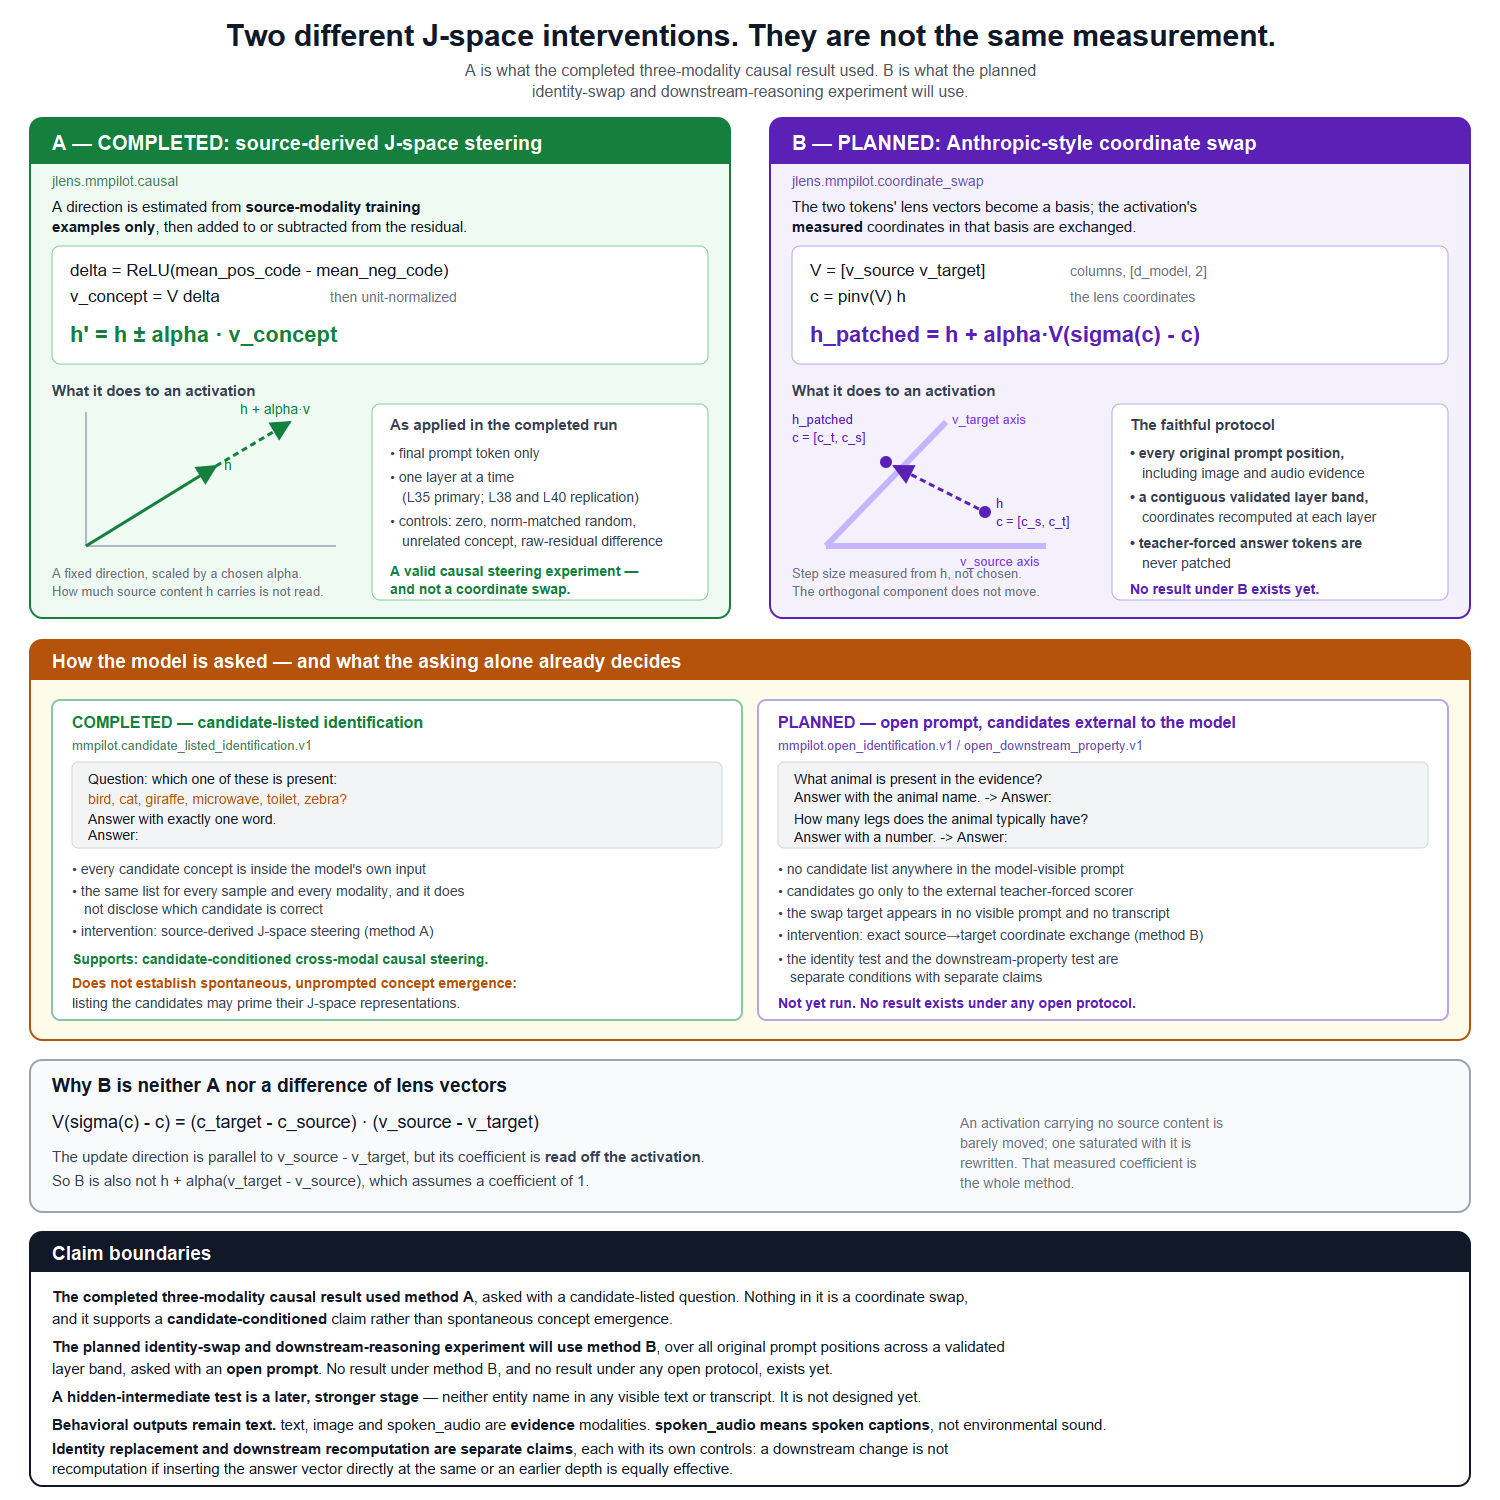
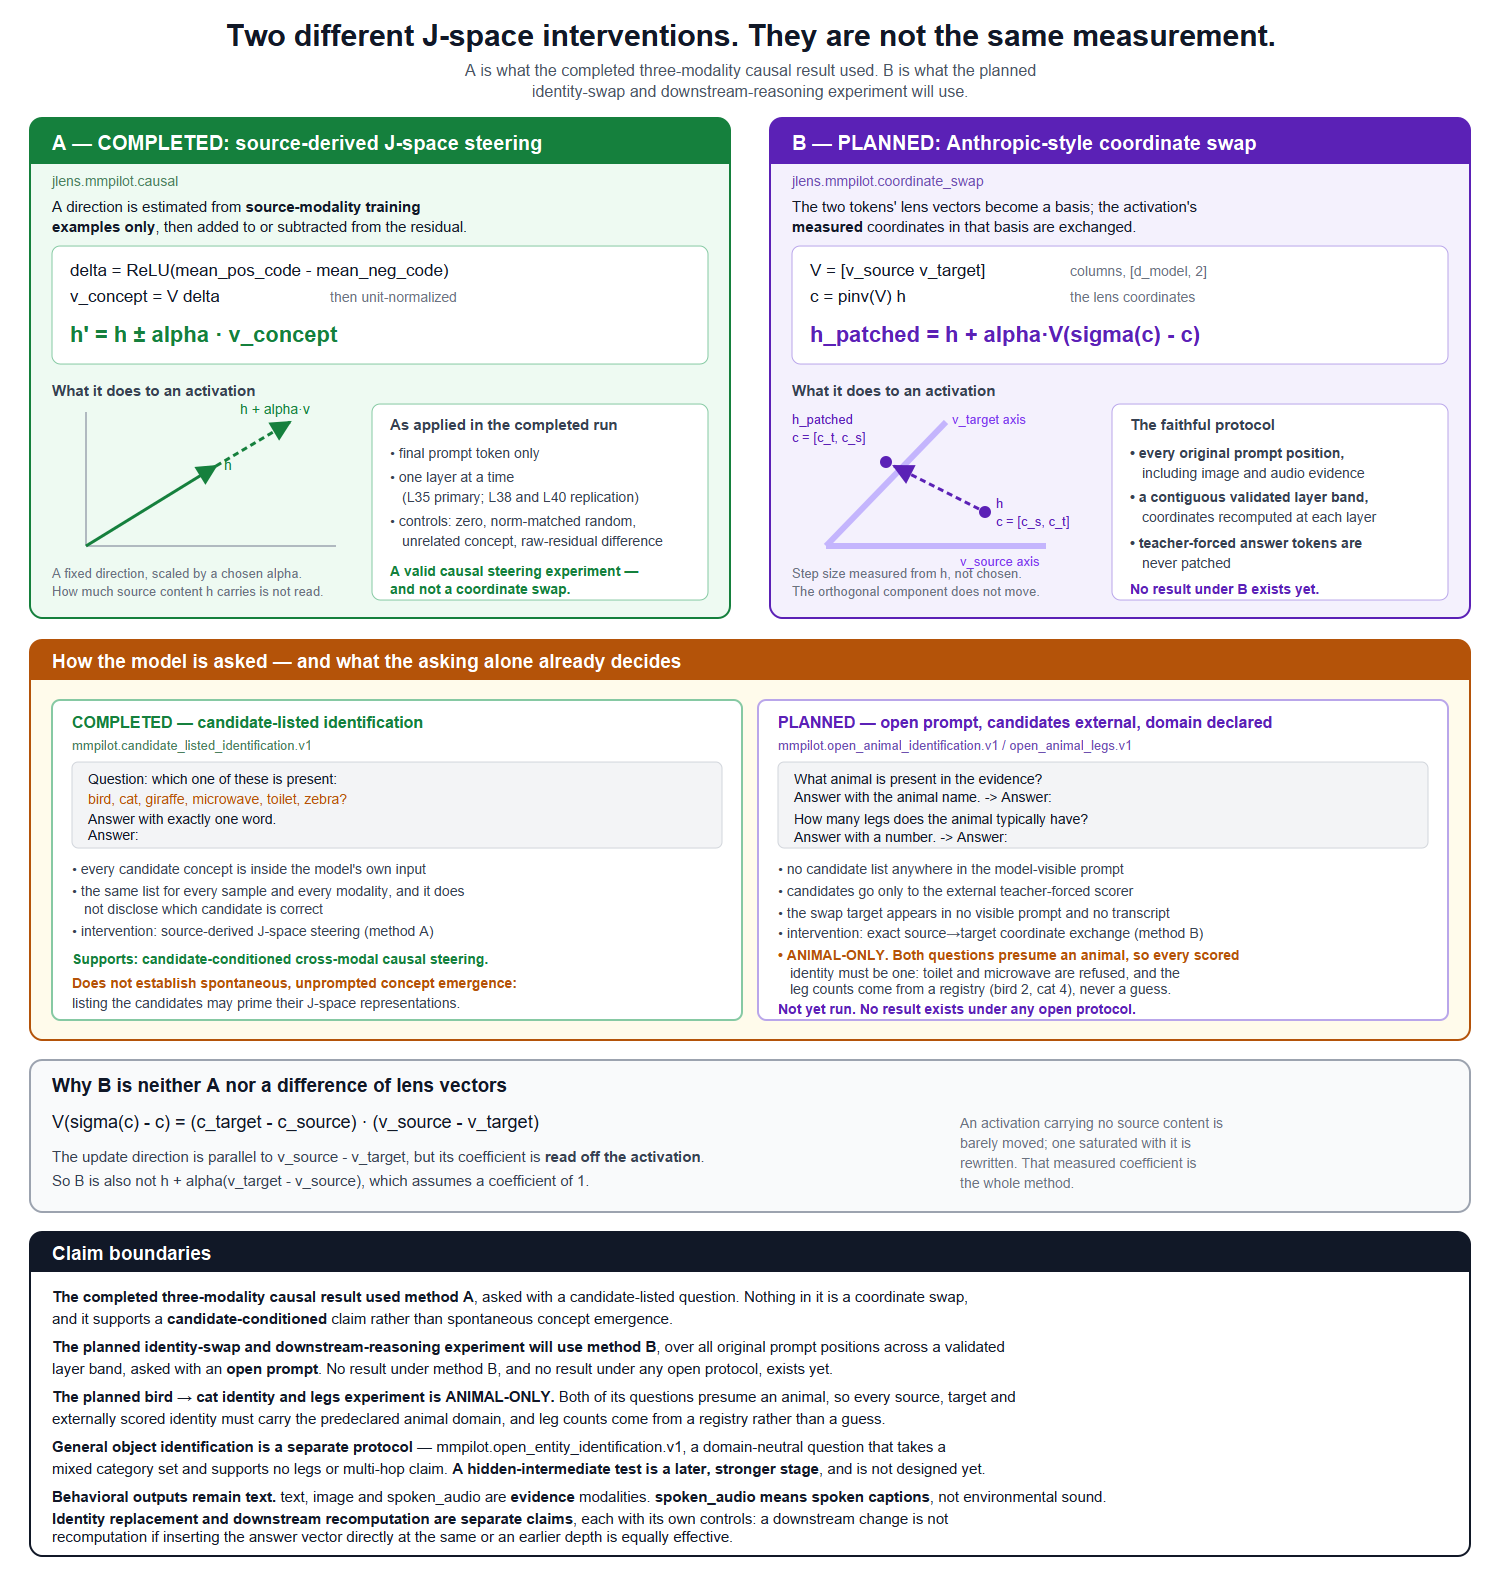
Say on the schematic that the planned experiment is animal-only
The planned panel names the two animal protocols, states that both questions
presume an animal so toilet and microwave are refused, and that the leg counts
come from a registry rather than a guess. The claim boundaries add that general
object identification is a separate, domain-neutral protocol which supports no
legs or multi-hop claim.

Changed region(s): [[0.0, 0.0, 0.9813, 1.0]]

diff --git a/tests/test_open_prompt_notebook.py b/tests/test_open_prompt_notebook.py
@@ -324,15 +324,17 @@ def test_the_schematic_draws_how_the_model_is_asked():
 
     # The planned side: the open prompts, and the boundary the scorer sits on.
     for statement in (
-        "PLANNED — open prompt, candidates external to the model",
-        "mmpilot.open_identification.v1 / open_downstream_property.v1",
+        "PLANNED — open prompt, candidates external, domain declared",
+        "mmpilot.open_animal_identification.v1 / open_animal_legs.v1",
         "What animal is present in the evidence?",
         "How many legs does the animal typically have?",
         "no candidate list anywhere in the model-visible prompt",
         "candidates go only to the external teacher-forced scorer",
         "the swap target appears in no visible prompt and no transcript",
         "coordinate exchange (method B)",
-        "separate conditions with separate claims",
+        "ANIMAL-ONLY. Both questions presume an animal",
+        "toilet and microwave are refused",
+        "leg counts come from a registry (bird 2, cat 4), never a guess",
     ):
         assert statement in svg, statement
 
@@ -342,7 +344,12 @@ def test_the_schematic_does_not_imply_the_open_experiments_have_succeeded():
     assert "Not yet run. No result exists under any open protocol." in svg
     assert "No result under method B, and no result under any open protocol, exists yet." in svg
     assert "A hidden-intermediate test is a later, stronger stage" in svg
-    assert "It is not designed yet." in svg
+    assert "is not designed yet." in svg
+    # The animal scope and the separate general protocol are both stated.
+    assert "identity and legs experiment is ANIMAL-ONLY" in svg
+    assert "General object identification is a separate protocol" in svg
+    assert "mmpilot.open_entity_identification.v1" in svg
+    assert "supports no legs or multi-hop claim" in svg
 
 
 # --------------------------------------------------------- the documentation
